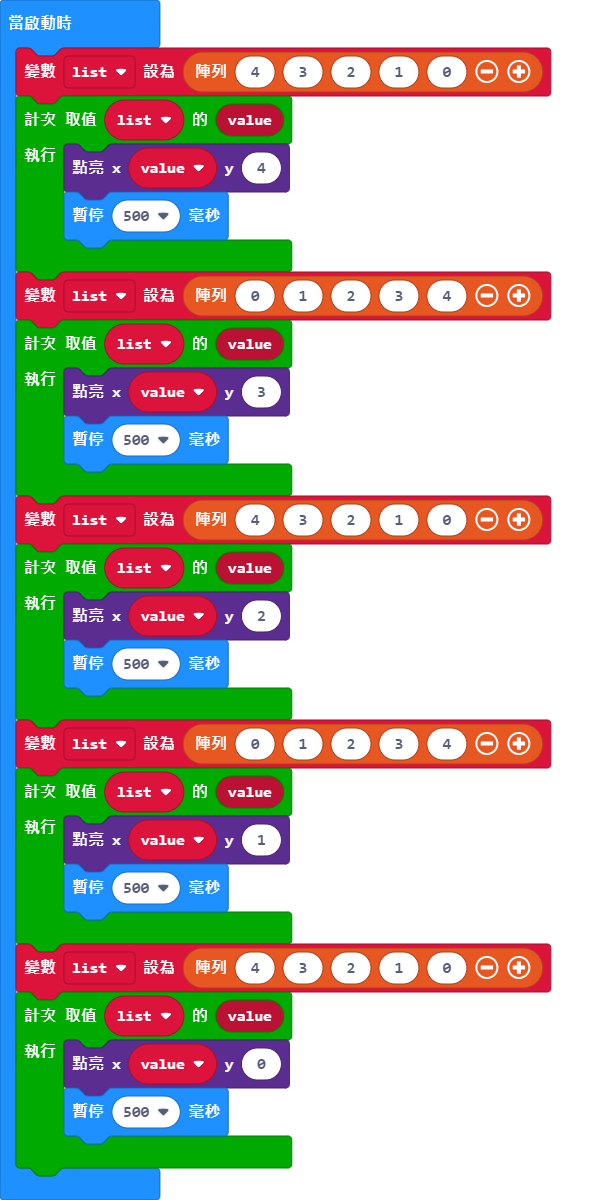
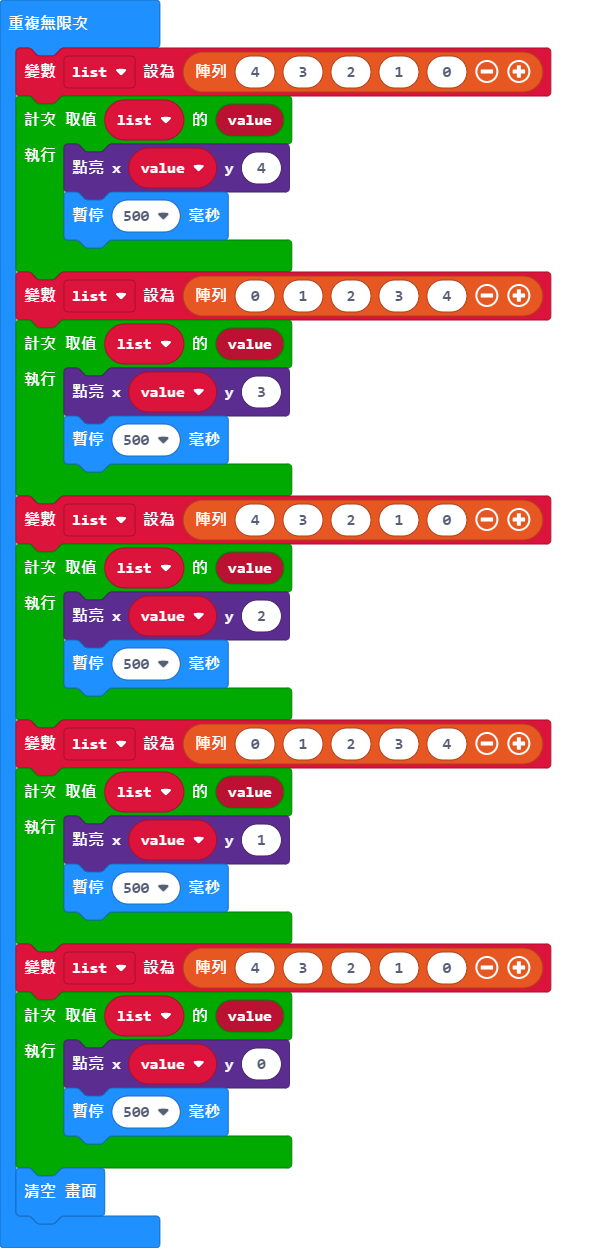
Update main.ts, main.blocks

diff --git a/main.ts b/main.ts
@@ -1,25 +1,29 @@
-let list = [4, 3, 2, 1, 0]
-for (let value of list) {
-    led.plot(value, 4)
-    basic.pause(500)
-}
-list = [0, 1, 2, 3, 4]
-for (let value of list) {
-    led.plot(value, 3)
-    basic.pause(500)
-}
-list = [4, 3, 2, 1, 0]
-for (let value of list) {
-    led.plot(value, 2)
-    basic.pause(500)
-}
-list = [0, 1, 2, 3, 4]
-for (let value of list) {
-    led.plot(value, 1)
-    basic.pause(500)
-}
-list = [4, 3, 2, 1, 0]
-for (let value of list) {
-    led.plot(value, 0)
-    basic.pause(500)
-}
+let list: number[] = []
+basic.forever(function () {
+    list = [4, 3, 2, 1, 0]
+    for (let value of list) {
+        led.plot(value, 4)
+        basic.pause(500)
+    }
+    list = [0, 1, 2, 3, 4]
+    for (let value of list) {
+        led.plot(value, 3)
+        basic.pause(500)
+    }
+    list = [4, 3, 2, 1, 0]
+    for (let value of list) {
+        led.plot(value, 2)
+        basic.pause(500)
+    }
+    list = [0, 1, 2, 3, 4]
+    for (let value of list) {
+        led.plot(value, 1)
+        basic.pause(500)
+    }
+    list = [4, 3, 2, 1, 0]
+    for (let value of list) {
+        led.plot(value, 0)
+        basic.pause(500)
+    }
+    basic.clearScreen()
+})
